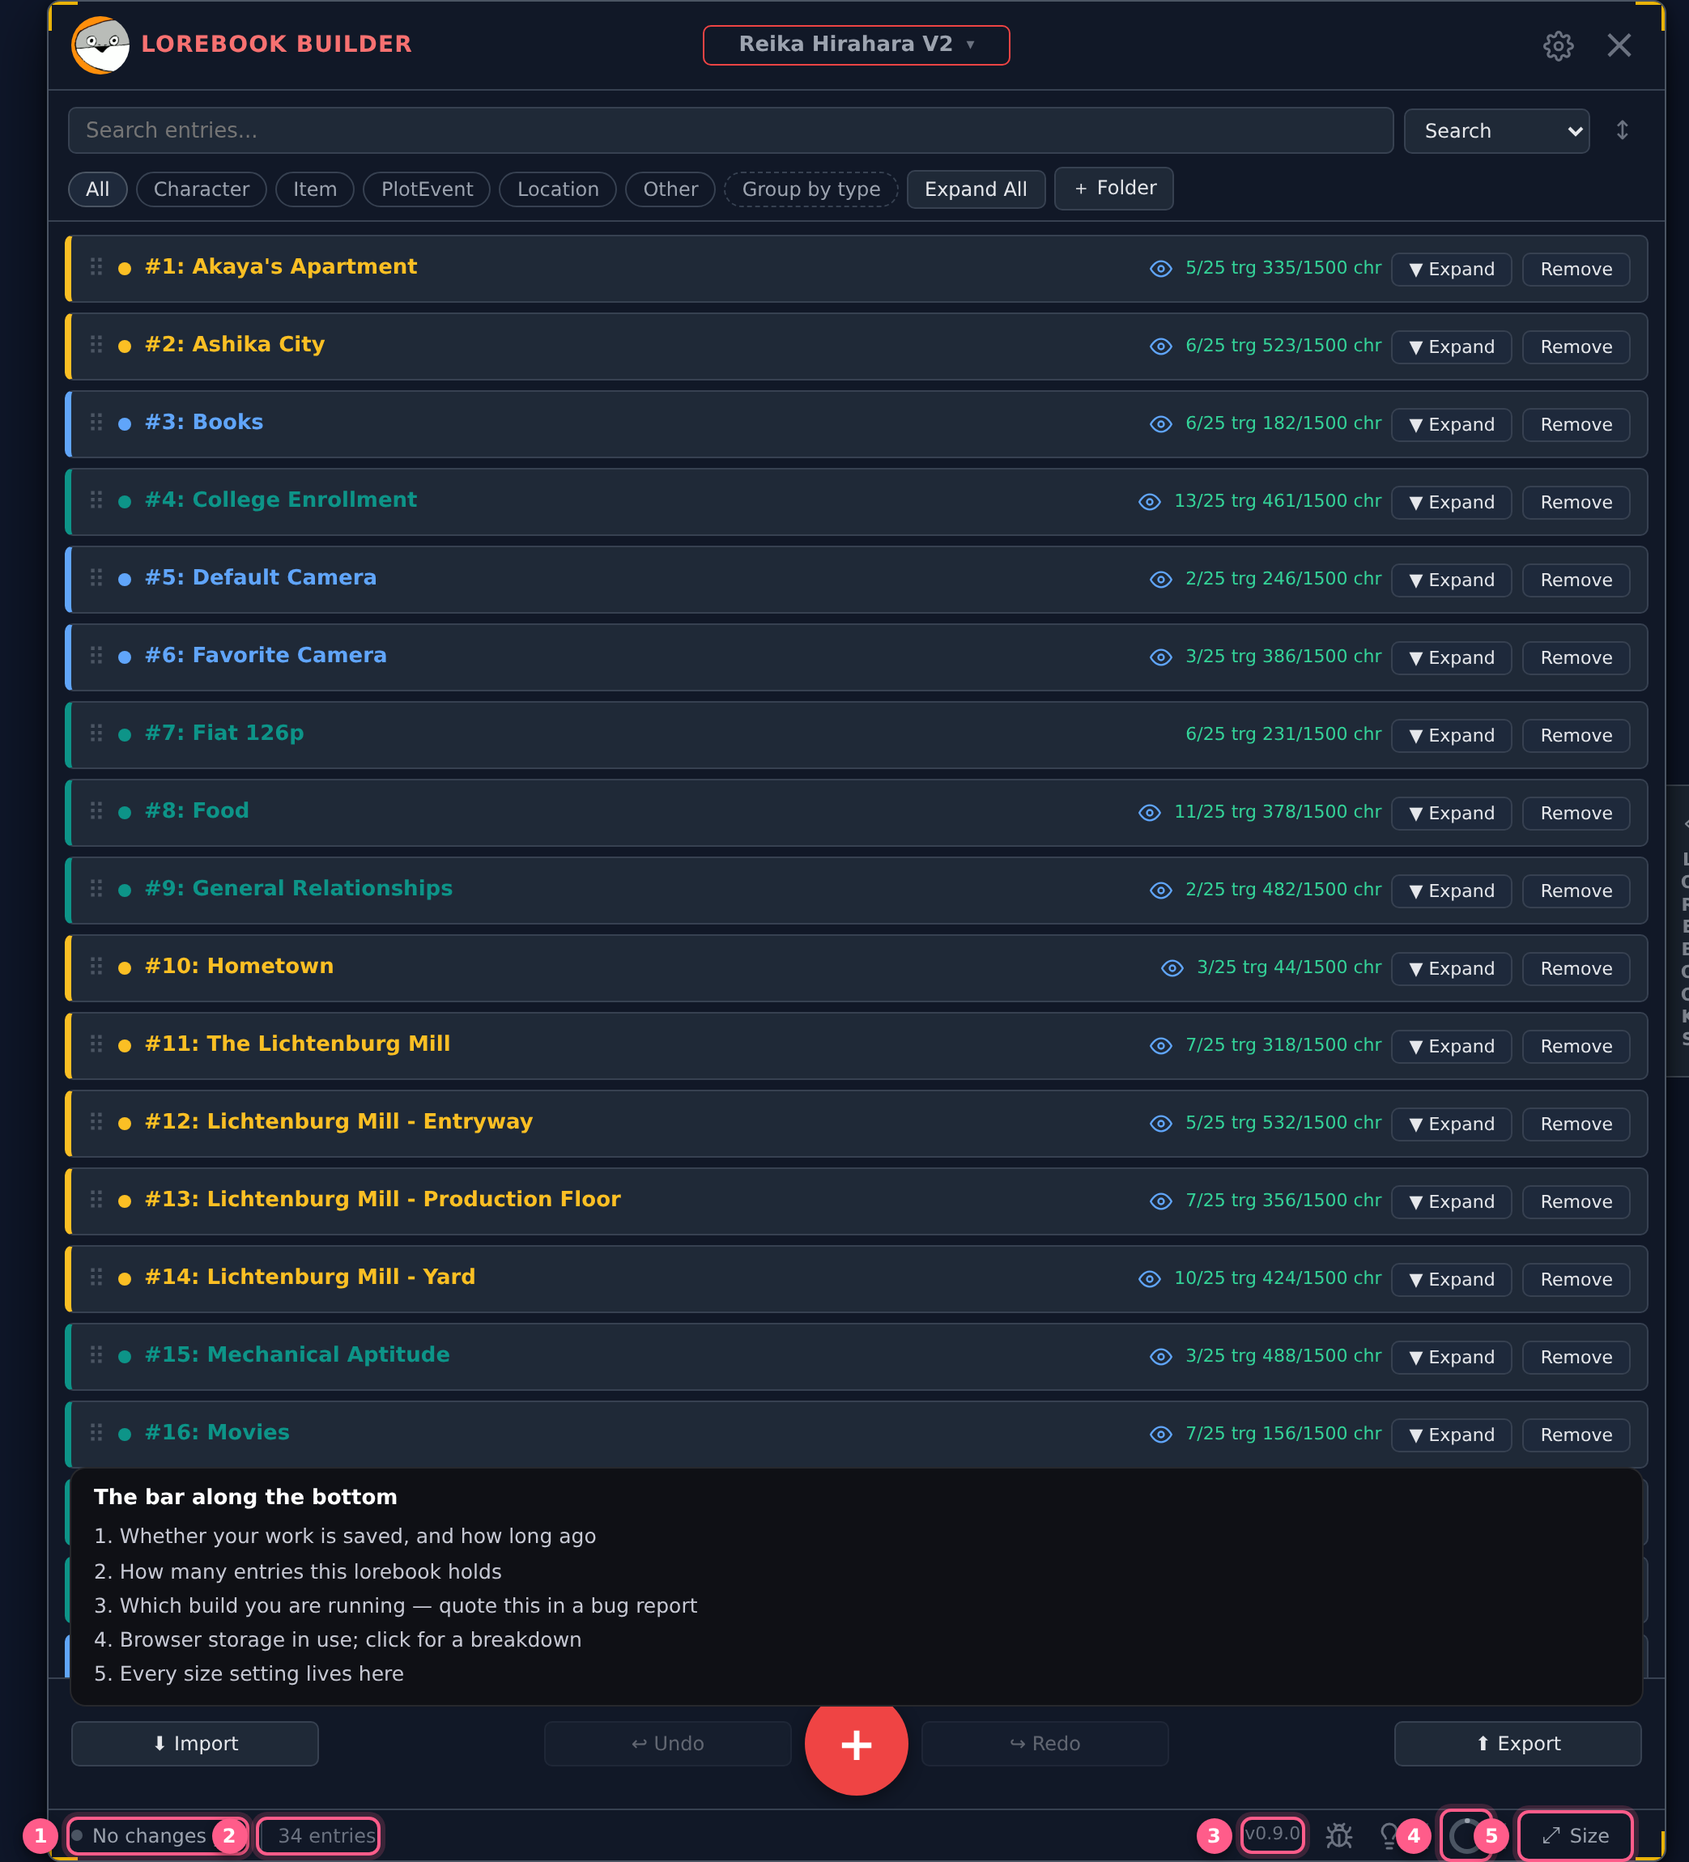
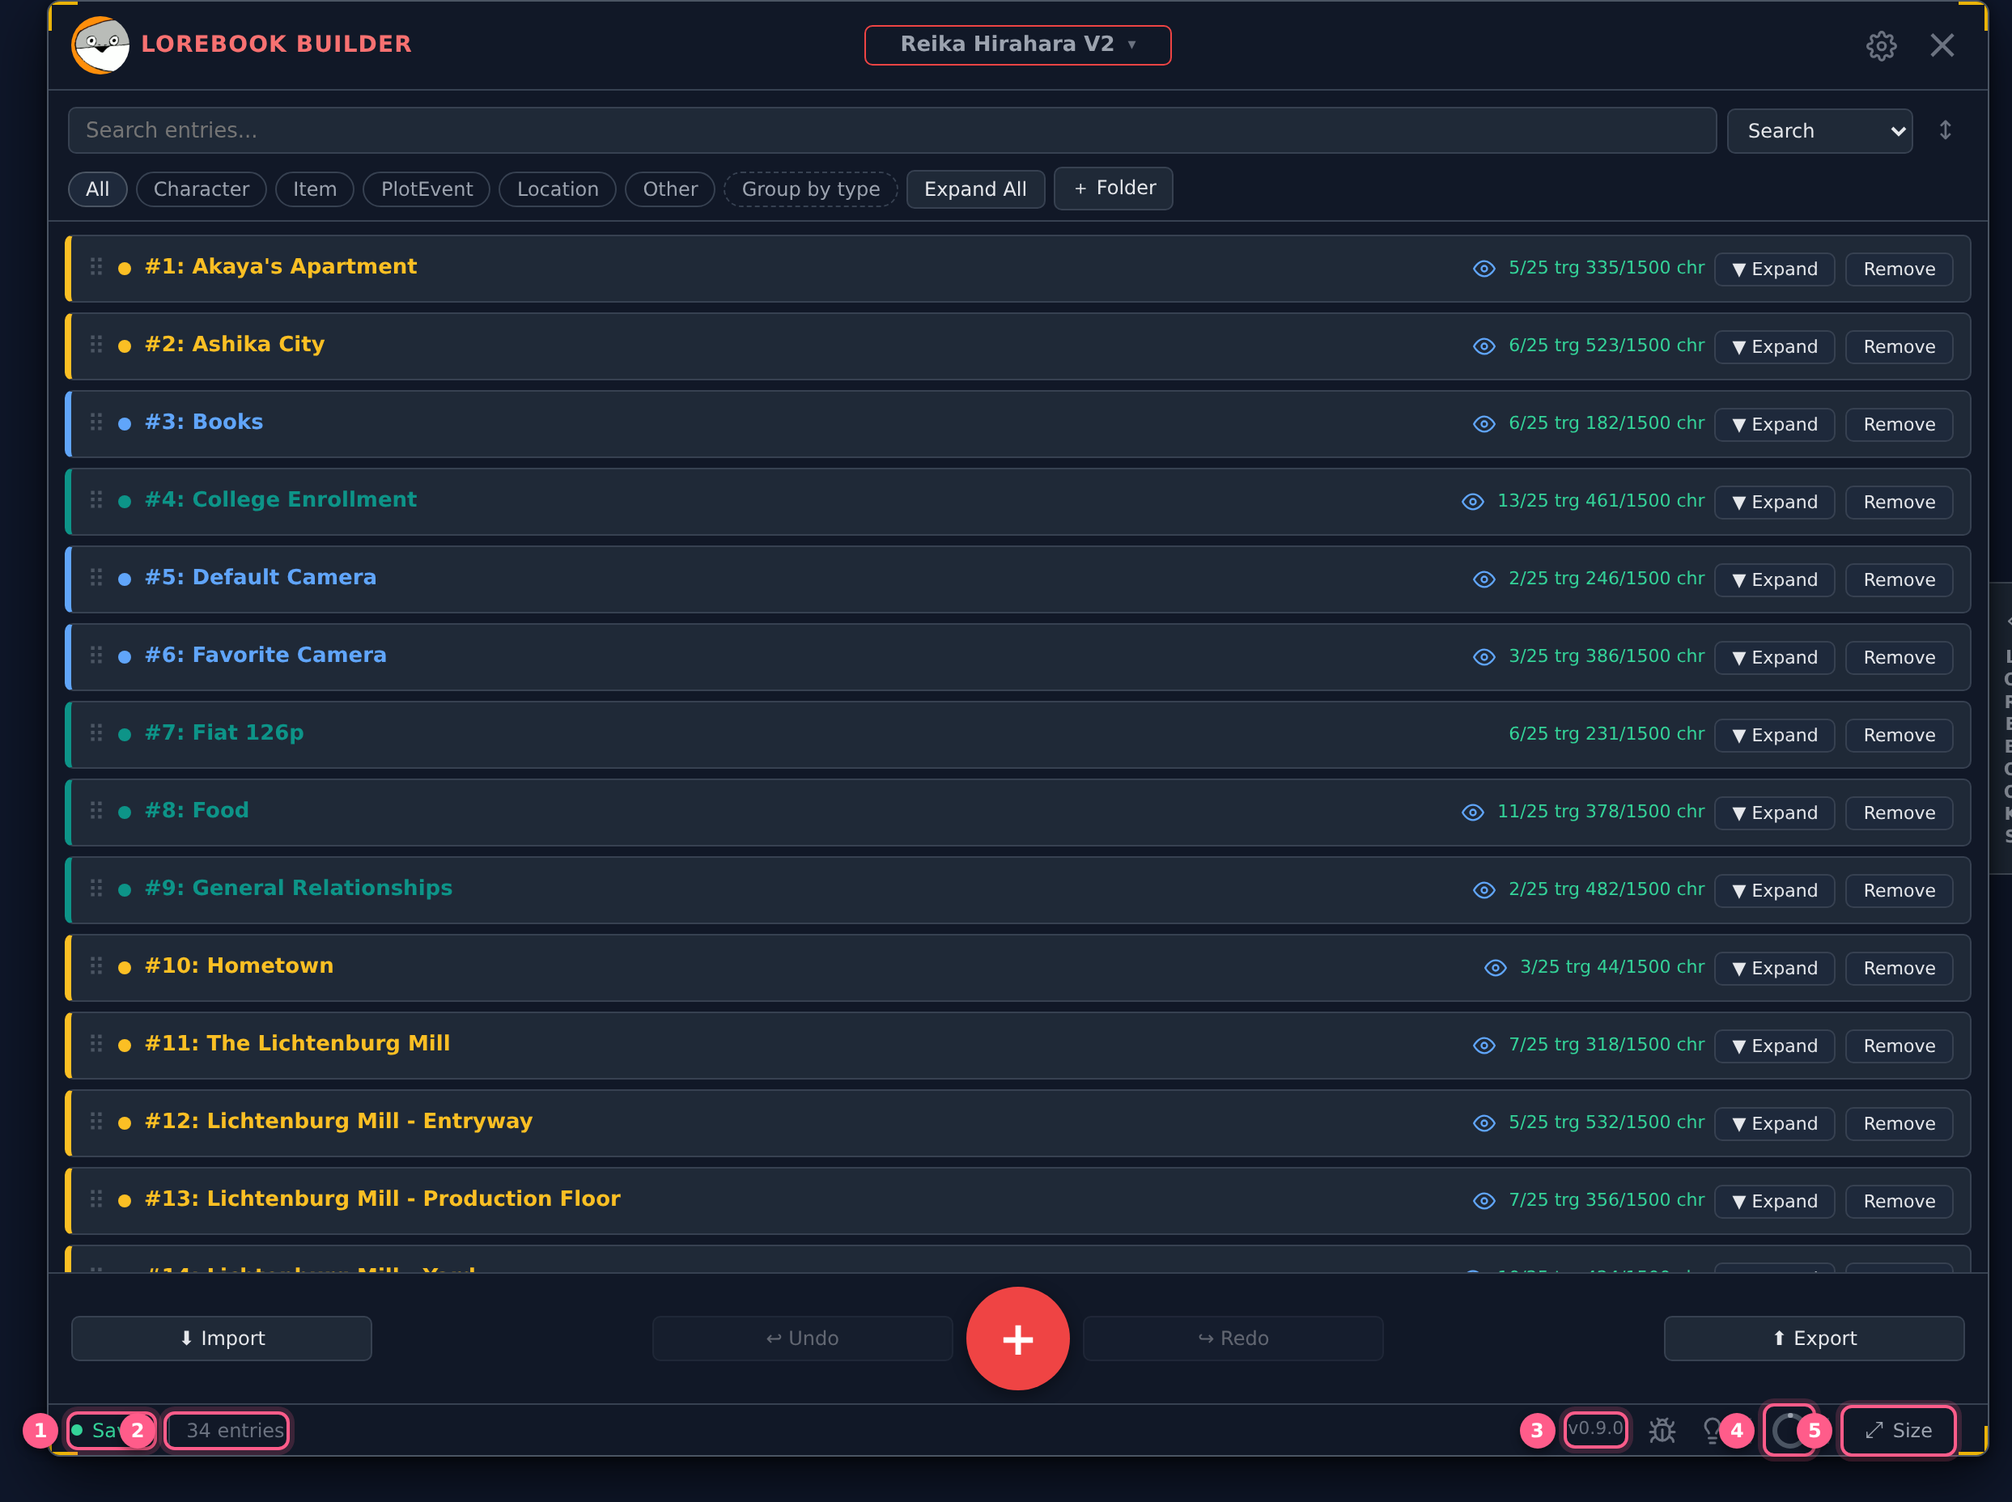
Tour: move the annotation labels out of the images into HTML
Both reported problems had one cause — the legend was painted into the PNG.

Pinned to the window's bottom edge, it covered whatever the shot was about
whenever that sat low: on the sizing step it sat directly over the sizing menu.
And because it was part of the image, enlarging in order to read the screenshot
took the explanation away with it, so the words and a legible picture were
never on screen together.

The labels now live in TOUR_STEPS[].marks and render as HTML. They sit outside
the image so they cannot cover it, survive enlarging, scale with the text-size
setting, and can be read by a screen reader. The generator draws only the
numbered badges, from the same array, so a label cannot drift from the badge it
belongs to. Scenes are setup-only now; main() annotates from the shared list.

The enlarged view gains a sticky side column carrying the title, caption and
numbered list — beside the image rather than under it, since a bottom bar would
reintroduce exactly the covering problem. It wraps below the image under
1100px. Clicks inside it don't dismiss the view, or selecting the text would
close what you were reading.

Separately, the captures were never of the builder's default size. Bootstrap
sizes a first-run window from the viewport — two thirds of its width and its
full height — so on the generator's canvas the app came out 1000x1150, a shape
no user's default has, and that extra height was a large part of why the shots
[…]

diff --git a/src/constants/tour-steps.js b/src/constants/tour-steps.js
@@ -7,9 +7,17 @@
 // release images stay correct.
 //
 // What lives here is declarative only — an id, an image, and the words. The
-// Playwright work of building each scene (opening menus, importing a file,
-// pinning badges) stays in screenshots.mjs, keyed by these ids, so none of that
-// ends up in the app bundle.
+// Playwright work of building each scene (opening menus, importing a file) stays
+// in screenshots.mjs, keyed by these ids.
+//
+// `marks` is the numbered annotation list, and it lives here rather than being
+// painted into the PNG. Baked in, the legend was pinned to the window's bottom
+// edge — so it covered whatever the shot was about whenever that sat low, and it
+// vanished the moment someone enlarged the image, taking the explanation with
+// it. As HTML it sits outside the image, survives enlarging, scales with the
+// text-size setting, and can be read by a screen reader. `selector` is unused by
+// the app and kept here only so the labels can't drift out of step with the
+// badges the generator draws from the same array.
 //
 // The captions carry the information and the images support them, never the
 // reverse: text baked into a PNG ignores the user's text-size setting, can't be
@@ -38,6 +46,13 @@ export const TOUR_STEPS = [
     title: 'Your lorebooks live in the title',
     body:  'Click the lorebook name at the top of the window. Every book you’ve saved is on the left, import and export on the right. Double-click the title instead to rename the book you’re in.',
     alt:   'The lorebook title menu open, showing a list of saved lorebooks beside import and export controls.',
+    marks: [
+      { selector: '.title-menu .tm-book--active', label: 'Every lorebook you have saved — most recent first' },
+      { selector: '.title-menu .tm-sort-btn', label: 'Switch to A–Z if you would rather find them by name', nth: 1, place: 'right' },
+      { selector: '.title-menu .tm-new', label: 'Start a new lorebook' },
+      { selector: '.title-menu .drop-zone', label: 'Drop a file here to import, or click to browse', place: 'right' },
+      { selector: '.title-menu .tm-btn-row', label: 'Download this book as JSON, TXT or DOCX', place: 'right' },
+    ],
   },
   {
     id:    'import',
@@ -45,6 +60,13 @@ export const TOUR_STEPS = [
     title: 'Importing asks what you want',
     body:  'Drop a file on that menu and the book list steps aside. You choose what happens to the lorebook you have open — and you get the same four choices wherever you started the import.',
     alt:   'The import flow showing four choices: import as new, append, replace, and back up first.',
+    marks: [
+      { selector: '.import-flow-title', label: 'The file you picked, and how many entries it holds' },
+      { selector: '.import-flow-opt', label: 'Import as new — your current book is untouched', nth: 0, place: 'right' },
+      { selector: '.import-flow-opt', label: 'Replace overwrites what is there now', nth: 2, place: 'right' },
+      { selector: '.import-flow-opt', label: 'Back up first downloads a copy, then replaces', nth: 3, place: 'right' },
+      { selector: '.tm-rail-back', label: 'Back to your lorebooks' },
+    ],
   },
   {
     id:    'status-bar',
@@ -52,6 +74,13 @@ export const TOUR_STEPS = [
     title: 'The bar along the bottom',
     body:  'Everything that’s simply true about your work rather than something you do to it: whether you’re saved, your entry count, how much browser storage you’re using, and which version you’re running.',
     alt:   'The status bar across the bottom of the window, showing save state, entry count, version, and controls.',
+    marks: [
+      { selector: '.status-save', label: 'Whether your work is saved, and how long ago' },
+      { selector: '.status-count', label: 'How many entries this lorebook holds' },
+      { selector: '.status-version', label: 'Which build you are running — quote this in a bug report' },
+      { selector: '.status-right .storage-usage-ring', label: 'Browser storage in use; click for a breakdown' },
+      { selector: '.status-item', label: 'Every size setting lives here' },
+    ],
   },
   {
     id:    'size-menu',
@@ -59,6 +88,10 @@ export const TOUR_STEPS = [
     title: 'One place for every size',
     body:  'Window size, text size, entry height and the + button all live in ⌘ Size, bottom-right. Hover it to peek, click to keep it open. Reset all sizing leaves your text size alone on purpose.',
     alt:   'The Size menu open, with the window-size options flown out to the right.',
+    marks: [
+      { selector: '.scale-flyout', label: 'Named presets, or Custom… to type exact numbers', place: 'right' },
+      { selector: '.scale-menu', label: 'Each row shows its current value without opening anything', place: 'left' },
+    ],
   },
   {
     id:    'settings',
@@ -66,6 +99,11 @@ export const TOUR_STEPS = [
     title: 'Settings is four sections now',
     body:  'Grouped by what you’re changing rather than by whichever feature introduced the setting. Everything starts closed, and the filter box at the top finds a control even if you don’t know its exact name.',
     alt:   'The Settings panel showing four collapsed sections and a filter box.',
+    marks: [
+      { selector: '.settings-search-input', label: 'Finds a control even if you do not know its exact name', place: 'left' },
+      { selector: '.settings-section-title', label: 'What happens as you write', nth: 0, place: 'left' },
+      { selector: '.settings-section-title', label: 'How you drive the app — shortcuts, hotbar, folders', nth: 2, place: 'left' },
+    ],
   },
   {
     id:    'pull-tab',
@@ -73,5 +111,10 @@ export const TOUR_STEPS = [
     title: 'The pull tab on the right edge',
     body:  'Click it and your lorebook list opens beside your entries. The window widens to fit it rather than the panel covering what you were reading.',
     alt:   'The pull tab opened, with the lorebook list beside the entry list and the window widened to fit.',
+    marks: [
+      { selector: '.lorebook-tab', label: 'Click the tab to open and close the panel', place: 'right' },
+      { selector: '.menu-panel .switcher-list', label: 'Your lorebooks, beside your entries rather than over them', place: 'left' },
+      { selector: '.entry-card', label: 'The entry list keeps its width — the window grew instead', nth: 0, place: 'left' },
+    ],
   },
 ];

diff --git a/src/components/feature/FeatureTour.jsx b/src/components/feature/FeatureTour.jsx
@@ -21,6 +21,27 @@ function imageUrl(file) {
   return `${import.meta.env.BASE_URL}screenshots/${TOUR_RELEASE}/${file}`;
 }
 
+// The caption and the numbered labels, as real text. Rendered in both the panel
+// and the enlarged view — the explanation used to be painted into the image, so
+// enlarging in order to read the screenshot took the words away with it.
+function StepNotes({ step, className = '' }) {
+  return (
+    <div className={`tour-notes ${className}`.trim()}>
+      <p className="tour-body">{step.body}</p>
+      {step.marks?.length > 0 && (
+        <ol className="tour-marks">
+          {step.marks.map((m, i) => (
+            <li key={i}>
+              <span className="tour-mark-num" aria-hidden="true">{i + 1}</span>
+              {m.label}
+            </li>
+          ))}
+        </ol>
+      )}
+    </div>
+  );
+}
+
 export function FeatureTour({ onClose }) {
   const [index, setIndex]    = useState(0);
   const [zoomed, setZoomed]  = useState(false);
@@ -117,7 +138,7 @@ export function FeatureTour({ onClose }) {
           <span className="tour-zoom-hint" aria-hidden="true">Click to enlarge</span>
         </button>
 
-        <p className="tour-body">{step.body}</p>
+        <StepNotes step={step} />
 
         <div className="tour-actions">
           <div className="tour-dots" role="tablist" aria-label="Steps">
@@ -159,18 +180,26 @@ export function FeatureTour({ onClose }) {
           role="dialog"
           aria-label={`${step.title} — enlarged`}
         >
-          <img
-            src={imageUrl(step.file)}
-            alt={step.alt}
-            style={naturalWidth ? { width: naturalWidth / TOUR_CAPTURE_SCALE } : undefined}
-            onLoad={(e) => {
-              const box = zoomRef.current;
-              setZoomOverflows(Boolean(box) && e.currentTarget.height > box.clientHeight);
-            }}
-          />
-          <span className="tour-zoom-close">
-            {zoomOverflows ? 'Scroll to see the rest · click to close' : 'Click anywhere to close'}
-          </span>
+          <div className="tour-zoom-figure">
+            <img
+              src={imageUrl(step.file)}
+              alt={step.alt}
+              style={naturalWidth ? { width: naturalWidth / TOUR_CAPTURE_SCALE } : undefined}
+              onLoad={(e) => {
+                const box = zoomRef.current;
+                setZoomOverflows(Boolean(box) && e.currentTarget.height > box.clientHeight);
+              }}
+            />
+          </div>
+          {/* Stops click-to-close firing when someone clicks into the notes to
+              read or select them. */}
+          <aside className="tour-zoom-aside" onMouseDown={(e) => e.stopPropagation()}>
+            <h3 className="tour-zoom-aside-title">{step.title}</h3>
+            <StepNotes step={step} className="tour-notes--aside" />
+            <p className="tour-zoom-close">
+              {zoomOverflows ? 'Scroll to see the rest · click the image to close' : 'Click the image to close'}
+            </p>
+          </aside>
         </div>
       )}
     </div>

diff --git a/src/style.css b/src/style.css
@@ -7570,11 +7570,42 @@ kbd {
 }
 .tour-shot:hover .tour-zoom-hint { opacity: 1; }
 
+/* The caption and the numbered labels. Both are real text rather than being
+   painted into the screenshot, so they survive enlarging, scale with the
+   text-size setting, and can be read by a screen reader. */
+.tour-notes { margin: 14px 18px 0; flex-shrink: 0; }
+.tour-marks {
+  margin: 10px 0 0;
+  padding: 0;
+  list-style: none;
+  display: grid;
+  gap: 5px;
+  font-size: 0.75rem;
+  line-height: 1.45;
+  color: var(--muted2);
+}
+.tour-marks li { display: flex; align-items: flex-start; gap: 8px; }
+/* Same pink as the badges painted on the shot, so a number in the list and a
+   number on the image read as the same thing. */
+.tour-mark-num {
+  flex-shrink: 0;
+  width: 17px; height: 17px;
+  margin-top: 1px;
+  border-radius: 50%;
+  background: #ff5c8a;
+  color: #fff;
+  font-size: 0.625rem;
+  font-weight: 700;
+  display: flex;
+  align-items: center;
+  justify-content: center;
+}
+
 /* The caption carries the step — the image only supports it — but as plain
    text under a large screenshot it was being skipped entirely. Given a panel of
    its own with an accent edge so the eye lands on it. */
 .tour-body {
-  margin: 14px 18px 0;
+  margin: 0;
   padding: 11px 14px;
   background: var(--surface3);
   border: 1px solid var(--border2);
@@ -7642,6 +7673,35 @@ kbd {
   cursor: zoom-out;
   overflow: auto;
   overscroll-behavior: contain;
+  gap: 20px;
+  align-items: flex-start;
+}
+/* Image and notes side by side: a bar across the bottom would cover the shot,
+   which is exactly the problem the baked-in legend had. Wraps below on a narrow
+   screen. */
+.tour-zoom-figure { margin: auto; flex: 0 1 auto; min-width: 0; }
+.tour-zoom-aside {
+  flex: 0 0 300px;
+  position: sticky;
+  top: 0;
+  max-height: 100%;
+  overflow-y: auto;
+  padding: 14px 16px;
+  background: var(--surface2);
+  border: 1px solid var(--border2);
+  border-radius: var(--radius-lg);
+  cursor: default;
+}
+.tour-zoom-aside-title {
+  margin: 0 0 10px;
+  font-size: 0.9375rem;
+  font-weight: 700;
+  color: var(--text);
+}
+.tour-notes--aside { margin: 0; }
+@media (max-width: 1100px) {
+  .tour-zoom { flex-wrap: wrap; }
+  .tour-zoom-aside { flex: 1 1 100%; position: static; }
 }
 /* Capped to the viewport in both axes: the inline `width` is the builder's true
    size, and this only bites when the screen can't fit that. Better to show a
@@ -7661,15 +7721,10 @@ kbd {
   flex-shrink: 0;
 }
 .tour-zoom-close {
-  position: fixed;
-  bottom: 18px; left: 50%;
-  z-index: 1;
-  transform: translateX(-50%);
-  padding: 5px 12px;
-  border-radius: var(--radius);
-  background: rgba(0, 0, 0, 0.7);
-  color: var(--muted2);
+  margin: 12px 0 0;
+  color: var(--muted);
   font-size: 0.6875rem;
+  line-height: 1.4;
 }
 
 /* Re-entry to the feature tour from the lander, so dismissing the update

diff --git a/screenshots/README.md b/screenshots/README.md
@@ -35,10 +35,26 @@ whole image stays sharp at 2× device scale.
 2× is deliberate: the tour displays them scaled down, but clicking a shot
 enlarges it, and that is where the extra detail is spent.
 
+**Only the badges are drawn into the image.** The labels live in
+`TOUR_STEPS[].marks` and are rendered as HTML by the tour. Painted into the PNG,
+the legend was pinned to the window's bottom edge — so it covered whatever the
+shot was about whenever that sat low (the sizing menu, for one), and it
+disappeared the moment anyone enlarged the image, taking the explanation with
+it. As HTML it sits outside the image, survives enlarging, scales with the
+text-size setting, and can be read by a screen reader.
+
 Badges are numbered in **reading order** — top to bottom, left to right within
-a row — not in the order the marks happen to be listed in the script, and the
-legend is emitted in that same order. Numbering by source order produced images
-whose badges ran 3, 2, 1 down the page while the legend counted up.
+a row — not in the order the marks are listed. Numbering by source order
+produced images whose badges ran 3, 2, 1 down the page while the list counted
+up. The tour renders its list in the same array order, so keep marks listed in
+reading order.
+
+**The window is pinned to its default size before every capture.** Bootstrap
+sizes a first-run window from the viewport (two thirds of its width, its full
+height), so captures were of a window no user's default looks like — and the
+extra height is what made them too tall to read in the tour. `useDefaultWindow`
+picks the Medium preset through the real UI, so the shots track the default if
+it changes.
 
 The capture clip unions the app window, any portalled menu, *and* every badge
 and ring, since annotations sit outside their targets by design and would
